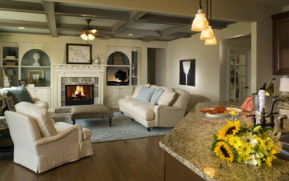
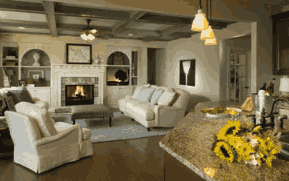
Add files via upload

diff --git a/index.html b/index.html
@@ -49,22 +49,22 @@
                 <div id="slider">
                     <div class="slide1">
                         <figure class="banner_img">
-                            <img src="images/banner.png" alt="banner" title="banner">
+                            <img src="images/bg.jpg" alt="bg" title="bg">
                         </figure>
                     </div>
                     <div class="slide2">
                         <figure class="banner_img">
-                            <img src="images/banner.png" alt="banner" title="banner">
+                            <img src="images/bg.jpg" alt="bg" title="bg">
                         </figure>
                     </div>
                     <div class="slide3">
                         <figure class="banner_img">
-                            <img src="images/banner.png" alt="banner" title="banner">
+                            <img src="images/bg.jpg" alt="bg" title="bg">
                         </figure>
                     </div>
                     <div class="slide4">
                         <figure class="banner_img">
-                            <img src="images/banner.png" alt="banner" title="banner">
+                            <img src="images/bg.jpg" alt="bg" title="bg">
                         </figure>
                     </div>
                 </div>

diff --git a/css/stylesheet.css b/css/stylesheet.css
@@ -14,29 +14,17 @@ a{
     width: 100%;
     margin: 0 auto;
 }
-.clearfix::after{
-    content: " ";
-    visibility: hidden;
-    display: block;
-    height: 0;
-    clear: both;
-}
-body{
-    
-}
 /* headerLink */
 .headerLink{
     background-color: #fcfcfc;
 }
 .hl_inner{
-    width: 90%;
-    margin: 0 auto;
-}
-.menu{
-    width: 91%;
+    width: 72%;
     margin: 0 auto;
 }
 .menu ul{
+    width: 90%;
+    margin: 0 auto;
     display: flex;
     flex-wrap: wrap;
 }
@@ -49,8 +37,8 @@ body{
     color: #000;
     text-transform: uppercase;
     display: inline-block;
-    padding: 44px 12px;
-    margin: 0 68px 0 0;
+    padding: 44px 16px;
+    margin: 0 28px 0 0;
 }
 .menu a:hover{
     background-color: #cedb32;
@@ -141,14 +129,14 @@ body{
     padding: 14px 0;
 }
 .inner_img{
-    width: 260px;
+    width: 266px;
     margin: 0 0 20px;
 }
 .inner_img img{
     width: 100%;
 }
 .inner_img.left, .inner_img.right {
-    width: 273px;
+    width: 278px;
 }
 .content_para{
     width: 76%;  
@@ -225,7 +213,7 @@ body{
 }
 .thLink{
     text-align: left;
-    margin: 0 0 0 22px;
+    margin: 0 0 0 25px;
 }
 .thLink a{
     font-size: 16px;
